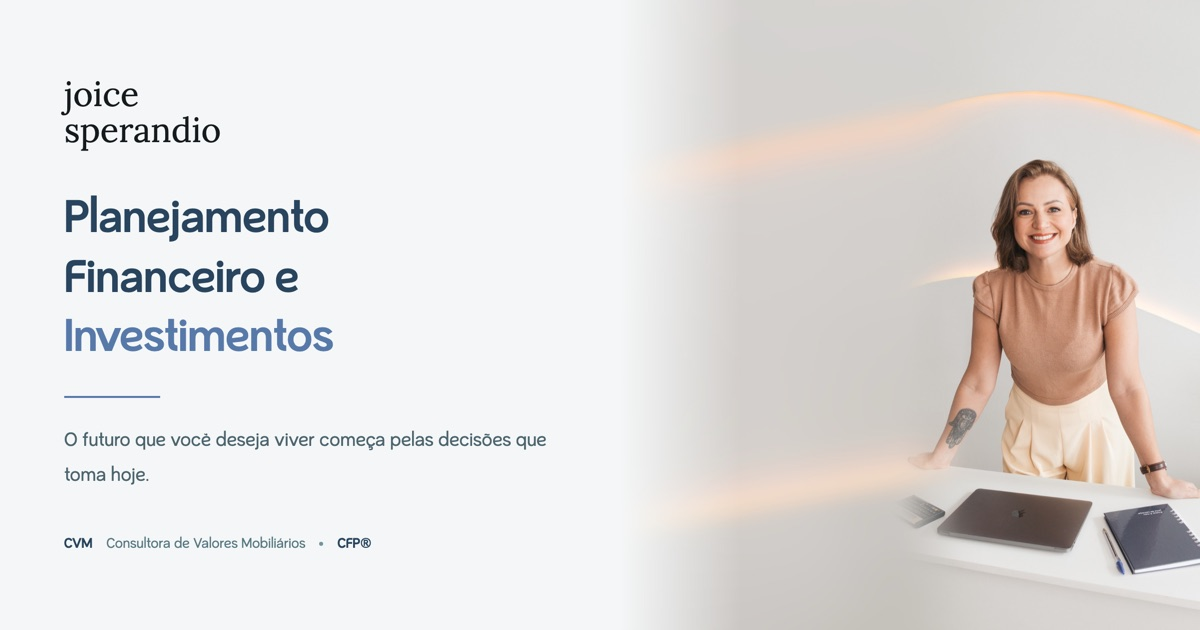
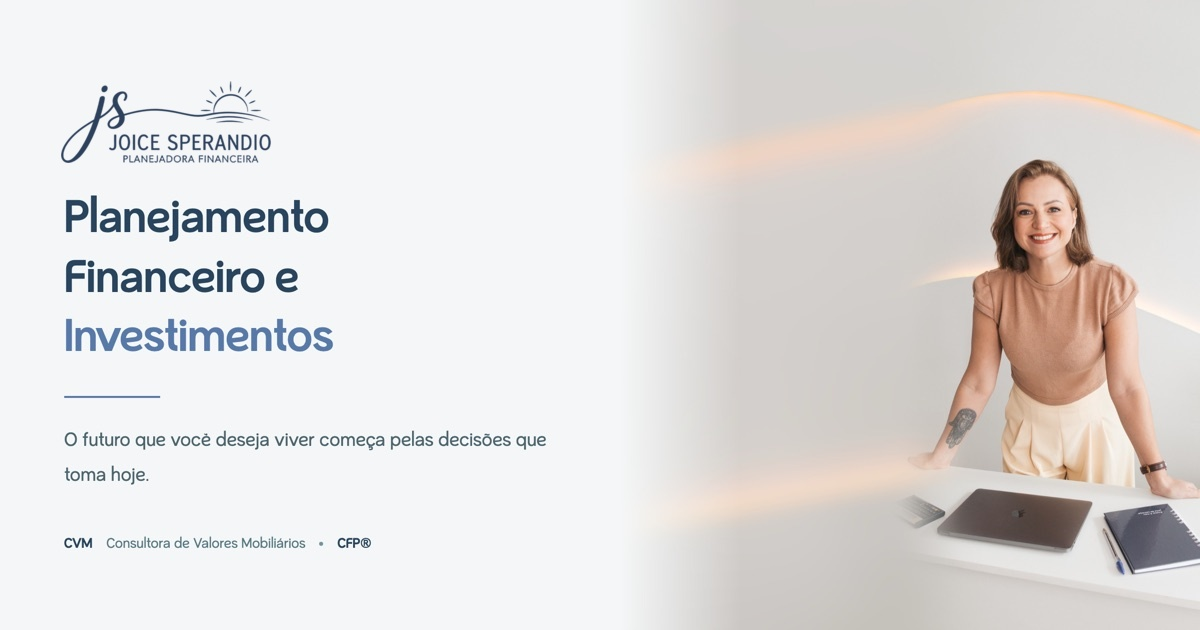
Use the real brand lockup as the wordmark
The mark was the two-line "joice / sperandio" wordmark exported from the
Figma file. The real logo is the full lockup — the `js` monogram under the
sun and the water line, over JOICE SPERANDIO / PLANEJADORA FINANCEIRA — and
that is what both pages draw now, header and footer.

The swap is four url()s and an asset because of a decision already in the
codebase: the mark is painted as a MASK over `currentcolor` rather than
shipped as two coloured files. A mask reads alpha, so nothing had to change
for the footer's inverse — the same file paints navy on the header bar and
#f4f7f7 on the navy footer, sun and water line included. Checked on all four
surfaces, not just the header.

Supplied as raster, so this is a PNG where there was an SVG. Nothing in the
build depends on which it is, and a vector original from the designer
replaces the two url()s per page and nothing else — worth asking for, since
this is the one asset most deserving of being a vector.

It is a 3x export of the drawn SLOT, not a bare trim: a 360x144 canvas —
120x48 at 3x — holding the mark at 333 wide, so `contain` reproduces the
~4.5 inset either side that the frame draws, and the lockup lands exactly
where the 110.896-wide mark it replaces sat. Section geometry at 1440 and
360 is unchanged. Stored grey+alpha with no colour of its own, which is both
correct for a mask and why it is 14KB rather than 55KB.

--c-logo moves with it, #35425d -> #2d415d. The token is defined in
[…]

Changed region(s): [[0.0308, 0.1206, 0.2467, 0.2714]]

diff --git a/poc/htmlonly-mobile/styles/sections.css b/poc/htmlonly-mobile/styles/sections.css
@@ -55,28 +55,36 @@
 
   /* Logo 120x48 — two lines of Lora at 24/24. The desktop's 1.05 ratio
      gives 50.4 here, which shows up as 2.4px on the footer column. */
-  /* The wordmark is a VECTOR in the file — Logo 120x48, the same component in
-     the header and the footer — not live type. Two lines of Lora only ever
-     approximated its letterforms, and drew them in --color-ink (#151a1d)
-     where the asset is #35425d.
+  /* The wordmark is the full brand lockup — the `js` monogram under the sun
+     and the water line, over JOICE SPERANDIO / PLANEJADORA FINANCEIRA. Logo
+     120x48, the same component in the header and the footer, and artwork
+     rather than live type: two lines of Lora only ever approximated the mark
+     this replaced, and drew them in --color-ink (#151a1d).
 
      Painted as a mask over `currentcolor` rather than shipped as two coloured
-     files. The header draws it #35425d and the footer #f4f7f7, the two
-     exports are byte-identical apart from that fill, and #f4f7f7 is already
-     --color-button-ink — which .brand--inverse sets. So one asset, and the
-     colour rules that were already here keep driving it. A mask reads the
-     asset's alpha, so its own fill is irrelevant.
+     files. The header draws it --c-logo and the footer #f4f7f7, which is
+     already --color-button-ink — the colour .brand--inverse sets. So one
+     asset, and the colour rules that were already here keep driving it.
 
-     `contain` in a 120x48 box lands the 110.896x48 artwork with ~4.55 either
-     side, which is the inset the frame draws (4.5 / 4.608). */
+     A mask reads the asset's ALPHA, which is the whole reason this swap is a
+     one-line change and the reason the file carries no colour: it is stored
+     grey+alpha, 14KB, and the navy comes from the CSS on both surfaces.
+
+     PNG where this used to be SVG, because the artwork was supplied as
+     raster. Nothing here depends on which it is, so a vector original from
+     the designer replaces the two url()s below and nothing else. It is a 3x
+     export of the drawn slot rather than a bare trim — a 360x144 canvas,
+     120x48 at 3x, holding the mark at 333 wide — so `contain` lands it at
+     111x43.4 with the ~4.5 inset either side that the frame draws, exactly
+     where the old 110.896-wide mark sat. */
   .brand {
     display: block;
     inline-size: 120px;
     block-size: 48px;
     color: var(--c-logo);
     background-color: currentcolor;
-    -webkit-mask: url("../assets/img/logo.svg") no-repeat center / contain;
-    mask: url("../assets/img/logo.svg") no-repeat center / contain;
+    -webkit-mask: url("../assets/img/logo.png") no-repeat center / contain;
+    mask: url("../assets/img/logo.png") no-repeat center / contain;
   }
 
   /* The name stays in the document as real text rather than becoming an

diff --git a/poc/rawhtml/styles/sections.css b/poc/rawhtml/styles/sections.css
@@ -40,28 +40,36 @@
     filter: drop-shadow(0 16px 10px rgb(87 121 170 / 8%));
   }
 
-  /* The wordmark is a VECTOR in the file — Logo 120x48, the same component in
-     the header and the footer — not live type. Two lines of Lora only ever
-     approximated its letterforms, and drew them in --color-ink (#151a1d)
-     where the asset is #35425d.
+  /* The wordmark is the full brand lockup — the `js` monogram under the sun
+     and the water line, over JOICE SPERANDIO / PLANEJADORA FINANCEIRA. Logo
+     120x48, the same component in the header and the footer, and artwork
+     rather than live type: two lines of Lora only ever approximated the mark
+     this replaced, and drew them in --color-ink (#151a1d).
 
      Painted as a mask over `currentcolor` rather than shipped as two coloured
-     files. The header draws it #35425d and the footer #f4f7f7, the two
-     exports are byte-identical apart from that fill, and #f4f7f7 is already
-     --color-button-ink — which .brand--inverse sets. So one asset, and the
-     colour rules that were already here keep driving it. A mask reads the
-     asset's alpha, so its own fill is irrelevant.
+     files. The header draws it --c-logo and the footer #f4f7f7, which is
+     already --color-button-ink — the colour .brand--inverse sets. So one
+     asset, and the colour rules that were already here keep driving it.
 
-     `contain` in a 120x48 box lands the 110.896x48 artwork with ~4.55 either
-     side, which is the inset the frame draws (4.5 / 4.608). */
+     A mask reads the asset's ALPHA, which is the whole reason this swap is a
+     one-line change and the reason the file carries no colour: it is stored
+     grey+alpha, 14KB, and the navy comes from the CSS on both surfaces.
+
+     PNG where this used to be SVG, because the artwork was supplied as
+     raster. Nothing here depends on which it is, so a vector original from
+     the designer replaces the two url()s below and nothing else. It is a 3x
+     export of the drawn slot rather than a bare trim — a 360x144 canvas,
+     120x48 at 3x, holding the mark at 333 wide — so `contain` lands it at
+     111x43.4 with the ~4.5 inset either side that the frame draws, exactly
+     where the old 110.896-wide mark sat. */
   .brand {
     display: block;
     inline-size: 120px;
     block-size: 48px;
     color: var(--c-logo);
     background-color: currentcolor;
-    -webkit-mask: url("../assets/img/logo.svg") no-repeat center / contain;
-    mask: url("../assets/img/logo.svg") no-repeat center / contain;
+    -webkit-mask: url("../assets/img/logo.png") no-repeat center / contain;
+    mask: url("../assets/img/logo.png") no-repeat center / contain;
   }
 
   /* The name stays in the document as real text rather than becoming an

diff --git a/poc/htmlonly-mobile/styles/tokens.css b/poc/htmlonly-mobile/styles/tokens.css
@@ -47,10 +47,11 @@
 
     --c-paper: #f4f7f7;       /* Background/Neutral/default — the page ground */
     --c-white: #ffffff;       /* Background/Neutral/white */
-    /* The wordmark's own ink, read off the exported Logo asset. Not a
-       mapped Figma variable and not --c-ink (#151a1d), which is what the
-       type-based approximation used to draw it in. */
-    --c-logo: #35425d;
+    /* The wordmark's own ink, read off the exported Logo asset — so it moved
+       with the asset, from #35425d to the lockup's own #2d415d. Not a mapped
+       Figma variable and not --c-ink (#151a1d), which is what the type-based
+       approximation used to draw it in. */
+    --c-logo: #2d415d;
     --c-mist: #f7fafc;        /* decorative ellipse behind the LOGOS bars */
 
     /* ---- Semantic -------------------------------------------------------- */

diff --git a/poc/rawhtml/styles/tokens.css b/poc/rawhtml/styles/tokens.css
@@ -47,10 +47,11 @@
 
     --c-paper: #f4f7f7;       /* Background/Neutral/default — the page ground */
     --c-white: #ffffff;       /* Background/Neutral/white */
-    /* The wordmark's own ink, read off the exported Logo asset. Not a
-       mapped Figma variable and not --c-ink (#151a1d), which is what the
-       type-based approximation used to draw it in. */
-    --c-logo: #35425d;
+    /* The wordmark's own ink, read off the exported Logo asset — so it moved
+       with the asset, from #35425d to the lockup's own #2d415d. Not a mapped
+       Figma variable and not --c-ink (#151a1d), which is what the type-based
+       approximation used to draw it in. */
+    --c-logo: #2d415d;
     --c-mist: #f7fafc;        /* decorative ellipse behind the LOGOS bars */
 
     /* ---- Semantic -------------------------------------------------------- */
